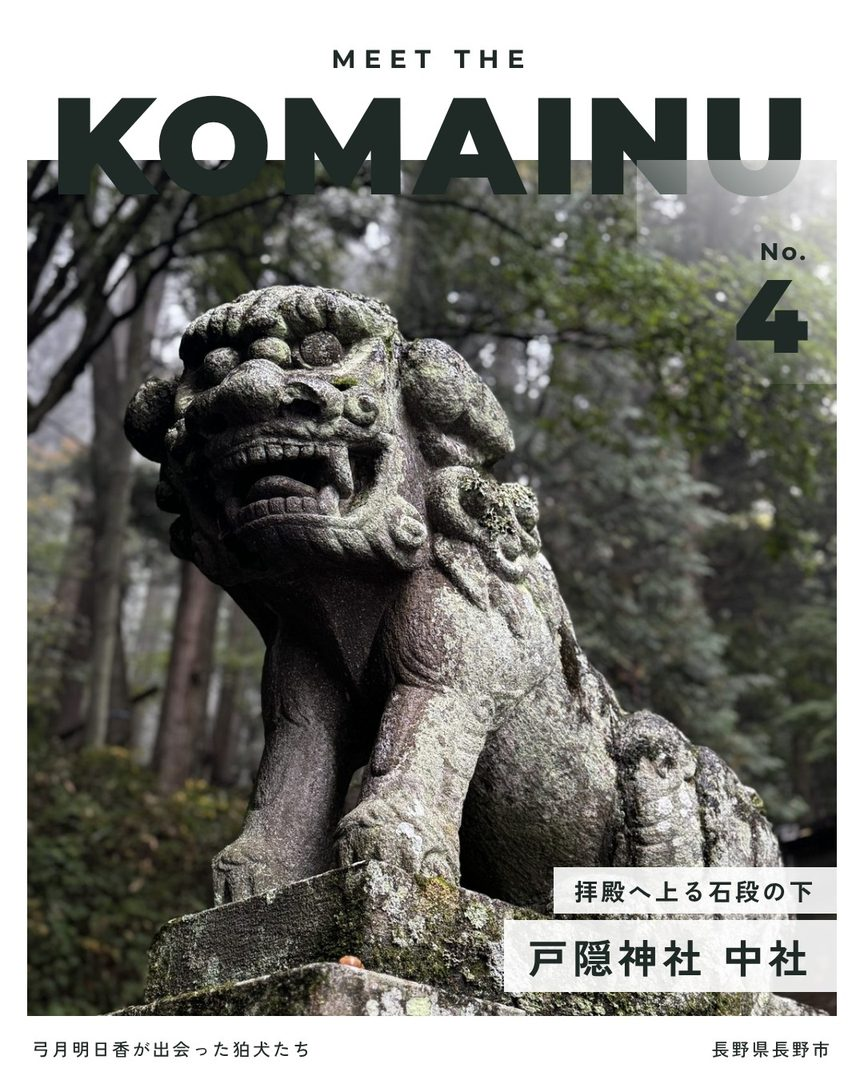
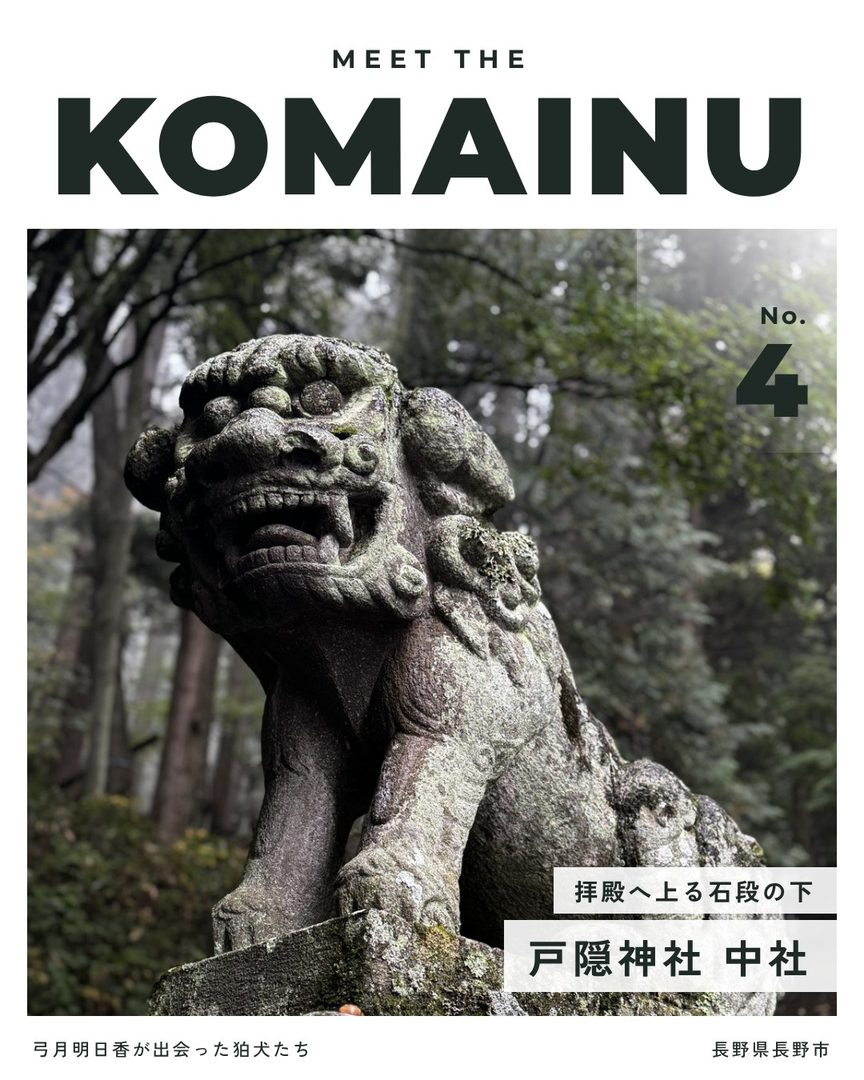
図鑑：表紙の誌名が写真に重なって読めなくなる2種類を直す(和良・中社・前宮・金劔宮・速玉)（komainu-v47）
Claude-Session: https://claude.ai/code/session_01TBFoRxibf2evV9HUJqSJfP

diff --git a/zukan/sw.js b/zukan/sw.js
@@ -1,7 +1,7 @@
 /* 狛犬図鑑 service worker
    アプリ本体は先に保存。data/ は新しいものを優先（通信できないときは保存分）。
    写真と地図タイルは見たものから保存する。データを差し替えたら CACHE の番号を上げる。 */
-var CACHE = 'komainu-v46';
+var CACHE = 'komainu-v47';
 var CORE = [
   './', 'index.html', 'style.css', 'app.js', 'maplibre-gl.css', 'manifest.webmanifest',
   'data/site.json', 'data/taxonomy.json', 'data/shrines.json',

diff --git a/zukan/app.js b/zukan/app.js
@@ -521,7 +521,7 @@
 
   // 雑誌の表紙のような1枚。build/cover2/make4.py が作った画像(Instagram の1枚目と同じもの)をそのまま出す。
   // 狛犬を切り抜いて誌名の上に頭が重なる作りのため、画像で持つ。11種類を神社の並び順で回す
-  var COVER_V = '20261106f';
+  var COVER_V = '20261107a';
   function coverHTML(s) {
     var ks = s.komainu || [], gw = groupWord(ks);
     if (!ks[0]) return '';
